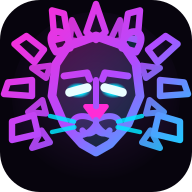
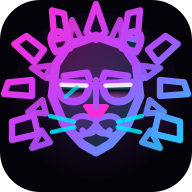
feat(brand+themes): leao de oculos neon (theme-aware) + fundos mais escuros
Logo:
- LionMark ganha oculos escuro neon como ponto focal (2 lentes glossy,
  rim branco, ponte + hastes, reflexo cyan)
- gradientes agora puxam dos tokens do tema (--accent/--purple/--cyan)
  com fallback synthwave -> o leao recolore junto com o tema, um pouco
  mais vibrante. Favicon/PWA/apple-icon regenerados via sharp.

Temas (um tiquinho mais escuros, mantendo o tom de cada um):
- globals.css: bg-root/surface/elevated/overlay/glass de synthwave,
  matrix, inferno, ice, gold e mono escurecidos ~25%
- theme.ts: swatches do picker + DEFAULT_CUSTOM.bg mais escuros;
  derivacao do custom clareia menos (95/90/85%) = fundo mais preto
- layout.tsx: glass-bg do anti-flash alinhado (0.85)

Changed region(s): [[0.25, 0.4062, 0.75, 0.5625]]

diff --git a/components/brand/lion-mark.tsx b/components/brand/lion-mark.tsx
@@ -8,13 +8,16 @@ type LionMarkProps = {
 };
 
 /**
- * LionBot symbol — a majestic synthwave lion head.
+ * LionBot symbol — a majestic synthwave lion head with neon sunglasses.
  *
  * Two-layer neon mane (long outer blades + short inner blades = ~18 points,
- * giving real volume), an expressive geometric face with fel-line eyes that
- * glow, ears, a snout with nose + mouth, and whiskers. Magenta→purple→cyan
- * stroke gradient throughout. Pure SVG so it stays crisp at every size and
- * carries the brand glow everywhere (navbar, sidebar, auth, favicon source).
+ * giving real volume), an expressive geometric face, a snout with nose +
+ * mouth, whiskers, ears — and neon shades as the focal point.
+ *
+ * THEME-AWARE: the gradients pull from CSS theme tokens (--accent, --purple,
+ * --cyan) so the lion recolors with the active theme. Falls back to the
+ * synthwave hexes when the tokens aren't set (e.g. raster/SSR). A touch more
+ * vibrant than the rest of the UI so the mark pops.
  */
 export function LionMark({ size = 28, className, glow = true }: LionMarkProps) {
   const id = useId();
@@ -22,6 +25,12 @@ export function LionMark({ size = 28, className, glow = true }: LionMarkProps) {
   const fill = `lm-fill-${id}`;
   const maneFill = `lm-mane-${id}`;
   const eyeGlow = `lm-eye-${id}`;
+  const lens = `lm-lens-${id}`;
+
+  // Theme tokens with synthwave fallbacks — keeps the raster favicon correct.
+  const cA = "var(--accent, #ff2bd6)";
+  const cP = "var(--purple, #b14bff)";
+  const cC = "var(--cyan, #00e5ff)";
 
   return (
     <svg
@@ -36,30 +45,36 @@ export function LionMark({ size = 28, className, glow = true }: LionMarkProps) {
     >
       <defs>
         <linearGradient id={stroke} x1="5" y1="3" x2="43" y2="45" gradientUnits="userSpaceOnUse">
-          <stop offset="0%" stopColor="#ff2bd6" />
-          <stop offset="50%" stopColor="#b14bff" />
-          <stop offset="100%" stopColor="#00e5ff" />
+          <stop offset="0%" stopColor={cA} />
+          <stop offset="50%" stopColor={cP} />
+          <stop offset="100%" stopColor={cC} />
         </linearGradient>
         <linearGradient id={fill} x1="14" y1="13" x2="34" y2="38" gradientUnits="userSpaceOnUse">
-          <stop offset="0%" stopColor="rgba(255,43,214,0.24)" />
-          <stop offset="100%" stopColor="rgba(0,229,255,0.14)" />
+          <stop offset="0%" stopColor={cA} stopOpacity="0.26" />
+          <stop offset="100%" stopColor={cC} stopOpacity="0.16" />
         </linearGradient>
         <radialGradient id={maneFill} cx="50%" cy="46%" r="55%" gradientUnits="objectBoundingBox">
-          <stop offset="0%" stopColor="rgba(177,75,255,0.18)" />
-          <stop offset="100%" stopColor="rgba(177,75,255,0)" />
+          <stop offset="0%" stopColor={cP} stopOpacity="0.20" />
+          <stop offset="100%" stopColor={cP} stopOpacity="0" />
         </radialGradient>
         <radialGradient id={eyeGlow} cx="50%" cy="50%" r="50%">
-          <stop offset="0%" stopColor="#aef9ff" />
-          <stop offset="60%" stopColor="#00e5ff" />
-          <stop offset="100%" stopColor="rgba(0,229,255,0)" />
+          <stop offset="0%" stopColor="#ffffff" />
+          <stop offset="55%" stopColor={cC} />
+          <stop offset="100%" stopColor={cC} stopOpacity="0" />
         </radialGradient>
+        {/* Glossy lens: dark core with a neon sheen pulled from the theme */}
+        <linearGradient id={lens} x1="0" y1="0" x2="0" y2="1">
+          <stop offset="0%" stopColor={cC} stopOpacity="0.55" />
+          <stop offset="42%" stopColor="#05030a" stopOpacity="0.95" />
+          <stop offset="100%" stopColor={cA} stopOpacity="0.40" />
+        </linearGradient>
       </defs>
 
       {/* Soft radial wash behind the mane for depth */}
       <circle cx="24" cy="24" r="21" fill={`url(#${maneFill})`} />
 
       {/* ── Mane: outer layer — 9 long neon blades ── */}
-      <g stroke={`url(#${stroke})`} strokeWidth="1.6" strokeLinejoin="round" strokeLinecap="round" fill="rgba(177,75,255,0.06)">
+      <g stroke={`url(#${stroke})`} strokeWidth="1.6" strokeLinejoin="round" strokeLinecap="round" fill={cP} fillOpacity="0.07">
         <path d="M24 1 26.4 8 24 10 21.6 8 Z" />
         <path d="M35 2.6 34.4 10 31 9.2 32 3.4 Z" />
         <path d="M13 2.6 13.6 10 17 9.2 16 3.4 Z" />
@@ -84,8 +99,8 @@ export function LionMark({ size = 28, className, glow = true }: LionMarkProps) {
       </g>
 
       {/* ── Ears — rounded, sitting above the mane so they read clearly ── */}
-      <path d="M14 13 C12 10 12.5 7.5 15 8 C16.6 8.4 17.4 10 17.5 12 Z" fill="rgba(255,43,214,0.16)" stroke={`url(#${stroke})`} strokeWidth="1.8" strokeLinejoin="round" />
-      <path d="M34 13 C36 10 35.5 7.5 33 8 C31.4 8.4 30.6 10 30.5 12 Z" fill="rgba(0,229,255,0.14)" stroke={`url(#${stroke})`} strokeWidth="1.8" strokeLinejoin="round" />
+      <path d="M14 13 C12 10 12.5 7.5 15 8 C16.6 8.4 17.4 10 17.5 12 Z" fill={cA} fillOpacity="0.18" stroke={`url(#${stroke})`} strokeWidth="1.8" strokeLinejoin="round" />
+      <path d="M34 13 C36 10 35.5 7.5 33 8 C31.4 8.4 30.6 10 30.5 12 Z" fill={cC} fillOpacity="0.16" stroke={`url(#${stroke})`} strokeWidth="1.8" strokeLinejoin="round" />
 
       {/* ── Head: expressive geometric face ── */}
       <path
@@ -103,22 +118,49 @@ export function LionMark({ size = 28, className, glow = true }: LionMarkProps) {
       <path d="M16 19 L21.8 18.2 22.4 19.8" stroke={`url(#${stroke})`} strokeWidth="1.7" strokeLinecap="round" strokeLinejoin="round" fill="none" />
       <path d="M32 19 L26.2 18.2 25.6 19.8" stroke={`url(#${stroke})`} strokeWidth="1.7" strokeLinecap="round" strokeLinejoin="round" fill="none" />
 
-      {/* ── Eyes: glowing feline slits with a bright core ── */}
-      <ellipse cx="19.6" cy="22.6" rx="3.2" ry="2" fill={`url(#${eyeGlow})`} opacity="0.9" />
-      <ellipse cx="28.4" cy="22.6" rx="3.2" ry="2" fill={`url(#${eyeGlow})`} opacity="0.9" />
-      <path d="M17.4 23.1 L21.8 21.9" stroke="#eafdff" strokeWidth="2.2" strokeLinecap="round" />
-      <path d="M26.2 21.9 L30.6 23.1" stroke="#eafdff" strokeWidth="2.2" strokeLinecap="round" />
+      {/* ── Neon sunglasses (focal point) ── */}
+      {/* faint glow leaking from behind the lenses */}
+      <ellipse cx="19.4" cy="22.8" rx="4.4" ry="3" fill={`url(#${eyeGlow})`} opacity="0.45" />
+      <ellipse cx="28.6" cy="22.8" rx="4.4" ry="3" fill={`url(#${eyeGlow})`} opacity="0.45" />
+
+      {/* bridge + temple arms (behind the lenses) */}
+      <path d="M22.4 21.4 L25.6 21.4" stroke={`url(#${stroke})`} strokeWidth="1.8" strokeLinecap="round" />
+      <path d="M14.6 21 L12.2 19.4" stroke={`url(#${stroke})`} strokeWidth="1.6" strokeLinecap="round" />
+      <path d="M33.4 21 L35.8 19.4" stroke={`url(#${stroke})`} strokeWidth="1.6" strokeLinecap="round" />
+
+      {/* left lens — angular, glossy, dark with neon rim */}
+      <path
+        d="M14.8 20.6 L22.2 20.9 C22.3 23.6 20.9 25.4 18.4 25.4 C16 25.4 14.6 23.8 14.4 21.7 C14.35 21.05 14.5 20.6 14.8 20.6 Z"
+        fill={`url(#${lens})`}
+        stroke={`url(#${stroke})`}
+        strokeWidth="1.9"
+        strokeLinejoin="round"
+      />
+      {/* right lens (mirror) */}
+      <path
+        d="M33.2 20.6 L25.8 20.9 C25.7 23.6 27.1 25.4 29.6 25.4 C32 25.4 33.4 23.8 33.6 21.7 C33.65 21.05 33.5 20.6 33.2 20.6 Z"
+        fill={`url(#${lens})`}
+        stroke={`url(#${stroke})`}
+        strokeWidth="1.9"
+        strokeLinejoin="round"
+      />
+      {/* bright top-rim highlight on each lens */}
+      <path d="M15.4 21.2 L21.6 21.4" stroke="#ffffff" strokeWidth="1.1" strokeLinecap="round" opacity="0.85" />
+      <path d="M32.6 21.2 L26.4 21.4" stroke="#ffffff" strokeWidth="1.1" strokeLinecap="round" opacity="0.85" />
+      {/* diagonal gleam streak across the left lens */}
+      <path d="M16.4 24.2 L19.2 21.8" stroke={cC} strokeWidth="1" strokeLinecap="round" opacity="0.7" />
 
       {/* ── Muzzle: two cheek lobes ── */}
       <path
         d="M24 31 C21.5 35 17.5 34.5 18 31 C18.3 28.8 21 28.4 24 30 C27 28.4 29.7 28.8 30 31 C30.5 34.5 26.5 35 24 31 Z"
-        fill="rgba(177,75,255,0.12)"
+        fill={cP}
+        fillOpacity="0.13"
         stroke={`url(#${stroke})`}
         strokeWidth="1.5"
         strokeLinejoin="round"
       />
       {/* Nose — solid downward triangle (classic lion muzzle) */}
-      <path d="M21.4 26.6 L26.6 26.6 L24 30 Z" fill="#ff2bd6" stroke="#ff2bd6" strokeWidth="1.2" strokeLinejoin="round" />
+      <path d="M21.4 26.6 L26.6 26.6 L24 30 Z" fill={cA} stroke={cA} strokeWidth="1.2" strokeLinejoin="round" />
       {/* Bridge from brow line down to nose */}
       <path d="M24 20 L24 26.6" stroke={`url(#${stroke})`} strokeWidth="1.5" strokeLinecap="round" />
       {/* Mouth — two curves under the nose */}
@@ -126,7 +168,7 @@ export function LionMark({ size = 28, className, glow = true }: LionMarkProps) {
         stroke={`url(#${stroke})`} strokeWidth="1.5" strokeLinecap="round" strokeLinejoin="round" fill="none" />
 
       {/* ── Whiskers ── */}
-      <g stroke="#00e5ff" strokeWidth="1.1" strokeLinecap="round" opacity="0.85">
+      <g stroke={cC} strokeWidth="1.1" strokeLinecap="round" opacity="0.85">
         <path d="M18.5 30.4 L12.5 29" />
         <path d="M18.6 31.8 L13 33" />
         <path d="M29.5 30.4 L35.5 29" />

diff --git a/app/globals.css b/app/globals.css
@@ -2,13 +2,13 @@
 
 :root {
   /* ═══ Deep Surface System — Synthwave Night ═════════ */
-  --bg-root: #07040d;
-  --bg-surface: #0a0612;
-  --bg-elevated: #100a1a;
-  --bg-overlay: #160e24;
+  --bg-root: #05030a;
+  --bg-surface: #08040e;
+  --bg-elevated: #0c0714;
+  --bg-overlay: #120b1d;
   --bg-input: rgba(177, 75, 255, 0.04);
   --bg-hover: rgba(255, 255, 255, 0.035);
-  --glass-bg: rgba(10, 6, 18, 0.78);
+  --glass-bg: rgba(8, 4, 14, 0.80);
 
   /* ═══ Gradient Surfaces ═════════════════════════════ */
   --gradient-surface: linear-gradient(145deg, rgba(255, 43, 214, 0.04) 0%, rgba(10, 6, 18, 0.95) 40%, rgba(10, 6, 18, 1) 100%);
@@ -76,11 +76,11 @@
 
 /* ── Matrix — neon terminal (green/cyan on pure black) ── */
 [data-theme="matrix"] {
-  --bg-root: #020604;
-  --glass-bg: rgba(4, 17, 10, 0.82);
-  --bg-surface: #04110a;
-  --bg-elevated: #06180e;
-  --bg-overlay: #0a2114;
+  --bg-root: #010402;
+  --glass-bg: rgba(3, 12, 7, 0.84);
+  --bg-surface: #030c07;
+  --bg-elevated: #04120a;
+  --bg-overlay: #07190f;
   --bg-input: rgba(0, 255, 140, 0.04);
 
   --border-subtle: rgba(0, 255, 140, 0.10);
@@ -125,11 +125,11 @@
 
 /* ── Inferno — molten (red/orange/amber on charcoal) ── */
 [data-theme="inferno"] {
-  --bg-root: #0c0604;
-  --glass-bg: rgba(20, 9, 10, 0.82);
-  --bg-surface: #14090a;
-  --bg-elevated: #1a0d0d;
-  --bg-overlay: #241313;
+  --bg-root: #090402;
+  --glass-bg: rgba(15, 6, 7, 0.84);
+  --bg-surface: #0e0606;
+  --bg-elevated: #140909;
+  --bg-overlay: #1c0e0e;
   --bg-input: rgba(255, 94, 58, 0.04);
 
   --border-subtle: rgba(255, 94, 58, 0.10);
@@ -174,11 +174,11 @@
 
 /* ── Ice — cold (blue/cyan/white on night blue) ── */
 [data-theme="ice"] {
-  --bg-root: #05080f;
-  --glass-bg: rgba(8, 13, 24, 0.82);
-  --bg-surface: #080d18;
-  --bg-elevated: #0c1322;
-  --bg-overlay: #111b2e;
+  --bg-root: #03050b;
+  --glass-bg: rgba(6, 10, 18, 0.84);
+  --bg-surface: #060912;
+  --bg-elevated: #090e1a;
+  --bg-overlay: #0d1524;
   --bg-input: rgba(91, 140, 255, 0.04);
 
   --border-subtle: rgba(91, 140, 255, 0.10);
@@ -223,11 +223,11 @@
 
 /* ── Gold — luxo (dourado/âmbar/bronze sobre preto) ── */
 [data-theme="gold"] {
-  --bg-root: #0a0805;
-  --glass-bg: rgba(15, 12, 6, 0.82);
-  --bg-surface: #0f0c08;
-  --bg-elevated: #16110a;
-  --bg-overlay: #201810;
+  --bg-root: #070503;
+  --glass-bg: rgba(11, 9, 4, 0.84);
+  --bg-surface: #0b0906;
+  --bg-elevated: #110d07;
+  --bg-overlay: #19130c;
   --bg-input: rgba(245, 200, 92, 0.04);
 
   --border-subtle: rgba(245, 200, 92, 0.10);
@@ -272,11 +272,11 @@
 
 /* ── Mono — minimalista (branco/cinza sobre preto) ── */
 [data-theme="mono"] {
-  --bg-root: #060606;
-  --glass-bg: rgba(12, 12, 12, 0.82);
-  --bg-surface: #0c0c0c;
-  --bg-elevated: #141414;
-  --bg-overlay: #1c1c1c;
+  --bg-root: #030303;
+  --glass-bg: rgba(8, 8, 8, 0.84);
+  --bg-surface: #080808;
+  --bg-elevated: #0f0f0f;
+  --bg-overlay: #161616;
   --bg-input: rgba(255, 255, 255, 0.04);
 
   --border-subtle: rgba(255, 255, 255, 0.08);

diff --git a/lib/theme.ts b/lib/theme.ts
@@ -9,12 +9,12 @@ export interface ThemeDef {
 }
 
 export const THEMES: ThemeDef[] = [
-  { id: "synthwave", name: "Synthwave", description: "Magenta & cyan · Blade Runner", swatch: ["#0a0612", "#ff2bd6", "#00e5ff", "#b14bff"] },
-  { id: "matrix", name: "Matrix", description: "Verde neon · terminal hacker", swatch: ["#020604", "#00ff8c", "#00e5ff", "#7cff6b"] },
-  { id: "inferno", name: "Inferno", description: "Vermelho & âmbar · molten", swatch: ["#0c0604", "#ff4d2e", "#ffb800", "#ff2d6f"] },
-  { id: "ice", name: "Ice", description: "Azul gelo · frio e limpo", swatch: ["#05080f", "#38bdf8", "#22d3ee", "#818cf8"] },
-  { id: "gold", name: "Gold", description: "Dourado · luxo", swatch: ["#0a0805", "#f5c85c", "#e0a44a", "#c9933a"] },
-  { id: "mono", name: "Mono", description: "Branco & cinza · minimalista", swatch: ["#060606", "#f5f5f5", "#a3a3a3", "#d4d4d4"] },
+  { id: "synthwave", name: "Synthwave", description: "Magenta & cyan · Blade Runner", swatch: ["#08040e", "#ff2bd6", "#00e5ff", "#b14bff"] },
+  { id: "matrix", name: "Matrix", description: "Verde neon · terminal hacker", swatch: ["#010402", "#00ff8c", "#00e5ff", "#7cff6b"] },
+  { id: "inferno", name: "Inferno", description: "Vermelho & âmbar · molten", swatch: ["#090402", "#ff4d2e", "#ffb800", "#ff2d6f"] },
+  { id: "ice", name: "Ice", description: "Azul gelo · frio e limpo", swatch: ["#03050b", "#38bdf8", "#22d3ee", "#818cf8"] },
+  { id: "gold", name: "Gold", description: "Dourado · luxo", swatch: ["#070503", "#f5c85c", "#e0a44a", "#c9933a"] },
+  { id: "mono", name: "Mono", description: "Branco & cinza · minimalista", swatch: ["#030303", "#f5f5f5", "#a3a3a3", "#d4d4d4"] },
 ];
 
 export interface CustomColors {
@@ -24,7 +24,7 @@ export interface CustomColors {
   purple: string;
 }
 
-export const DEFAULT_CUSTOM: CustomColors = { bg: "#0a0612", accent: "#ff2bd6", cyan: "#00e5ff", purple: "#b14bff" };
+export const DEFAULT_CUSTOM: CustomColors = { bg: "#06030c", accent: "#ff2bd6", cyan: "#00e5ff", purple: "#b14bff" };
 
 const KEY = "lionbot-theme";
 const CUSTOM_KEY = "lionbot-custom";
@@ -73,11 +73,12 @@ export function applyCustomColors(c: CustomColors) {
   set("--purple", c.purple);
   set("--purple-muted", `rgba(${pu}, 0.12)`);
   set("--purple-glow", `rgba(${pu}, 0.40)`);
+  // Camadas mais sutis = fundo mais preto (clareia menos rumo ao branco).
   set("--bg-root", c.bg);
-  set("--bg-surface", `color-mix(in srgb, ${c.bg} 92%, white)`);
-  set("--bg-elevated", `color-mix(in srgb, ${c.bg} 85%, white)`);
-  set("--bg-overlay", `color-mix(in srgb, ${c.bg} 78%, white)`);
-  set("--glass-bg", `rgba(${bg}, 0.82)`);
+  set("--bg-surface", `color-mix(in srgb, ${c.bg} 95%, white)`);
+  set("--bg-elevated", `color-mix(in srgb, ${c.bg} 90%, white)`);
+  set("--bg-overlay", `color-mix(in srgb, ${c.bg} 85%, white)`);
+  set("--glass-bg", `rgba(${bg}, 0.85)`);
   set("--border-subtle", `rgba(${a}, 0.10)`);
   set("--border-default", `rgba(${a}, 0.18)`);
   set("--border-glow", `rgba(${a}, 0.22)`);

diff --git a/app/layout.tsx b/app/layout.tsx
@@ -58,7 +58,7 @@ export default function RootLayout({
         {/* Apply saved theme before paint to avoid a flash of the default theme. */}
         <script
           dangerouslySetInnerHTML={{
-            __html: `(function(){try{var t=localStorage.getItem('lionbot-theme');if(!t||t==='synthwave')return;var e=document.documentElement;e.setAttribute('data-theme',t);if(t==='custom'){var c=JSON.parse(localStorage.getItem('lionbot-custom')||'{}');function rgb(h){h=(h||'').replace('#','');if(h.length===3)h=h.split('').map(function(x){return x+x}).join('');var n=parseInt(h,16);return ((n>>16)&255)+', '+((n>>8)&255)+', '+(n&255)}if(c.accent){var a=rgb(c.accent);e.style.setProperty('--accent',c.accent);e.style.setProperty('--accent-muted','rgba('+a+',0.12)');e.style.setProperty('--accent-glow','rgba('+a+',0.45)');e.style.setProperty('--border-subtle','rgba('+a+',0.10)');e.style.setProperty('--border-default','rgba('+a+',0.18)')}if(c.cyan){var cy=rgb(c.cyan);e.style.setProperty('--cyan',c.cyan);e.style.setProperty('--cyan-glow','rgba('+cy+',0.40)')}if(c.purple){var p=rgb(c.purple);e.style.setProperty('--purple',c.purple);e.style.setProperty('--purple-glow','rgba('+p+',0.40)')}if(c.bg){var bg=rgb(c.bg);e.style.setProperty('--bg-root',c.bg);e.style.setProperty('--glass-bg','rgba('+bg+',0.82)')}}}catch(_){}})();`,
+            __html: `(function(){try{var t=localStorage.getItem('lionbot-theme');if(!t||t==='synthwave')return;var e=document.documentElement;e.setAttribute('data-theme',t);if(t==='custom'){var c=JSON.parse(localStorage.getItem('lionbot-custom')||'{}');function rgb(h){h=(h||'').replace('#','');if(h.length===3)h=h.split('').map(function(x){return x+x}).join('');var n=parseInt(h,16);return ((n>>16)&255)+', '+((n>>8)&255)+', '+(n&255)}if(c.accent){var a=rgb(c.accent);e.style.setProperty('--accent',c.accent);e.style.setProperty('--accent-muted','rgba('+a+',0.12)');e.style.setProperty('--accent-glow','rgba('+a+',0.45)');e.style.setProperty('--border-subtle','rgba('+a+',0.10)');e.style.setProperty('--border-default','rgba('+a+',0.18)')}if(c.cyan){var cy=rgb(c.cyan);e.style.setProperty('--cyan',c.cyan);e.style.setProperty('--cyan-glow','rgba('+cy+',0.40)')}if(c.purple){var p=rgb(c.purple);e.style.setProperty('--purple',c.purple);e.style.setProperty('--purple-glow','rgba('+p+',0.40)')}if(c.bg){var bg=rgb(c.bg);e.style.setProperty('--bg-root',c.bg);e.style.setProperty('--glass-bg','rgba('+bg+',0.85)')}}}catch(_){}})();`,
           }}
         />
       </head>
